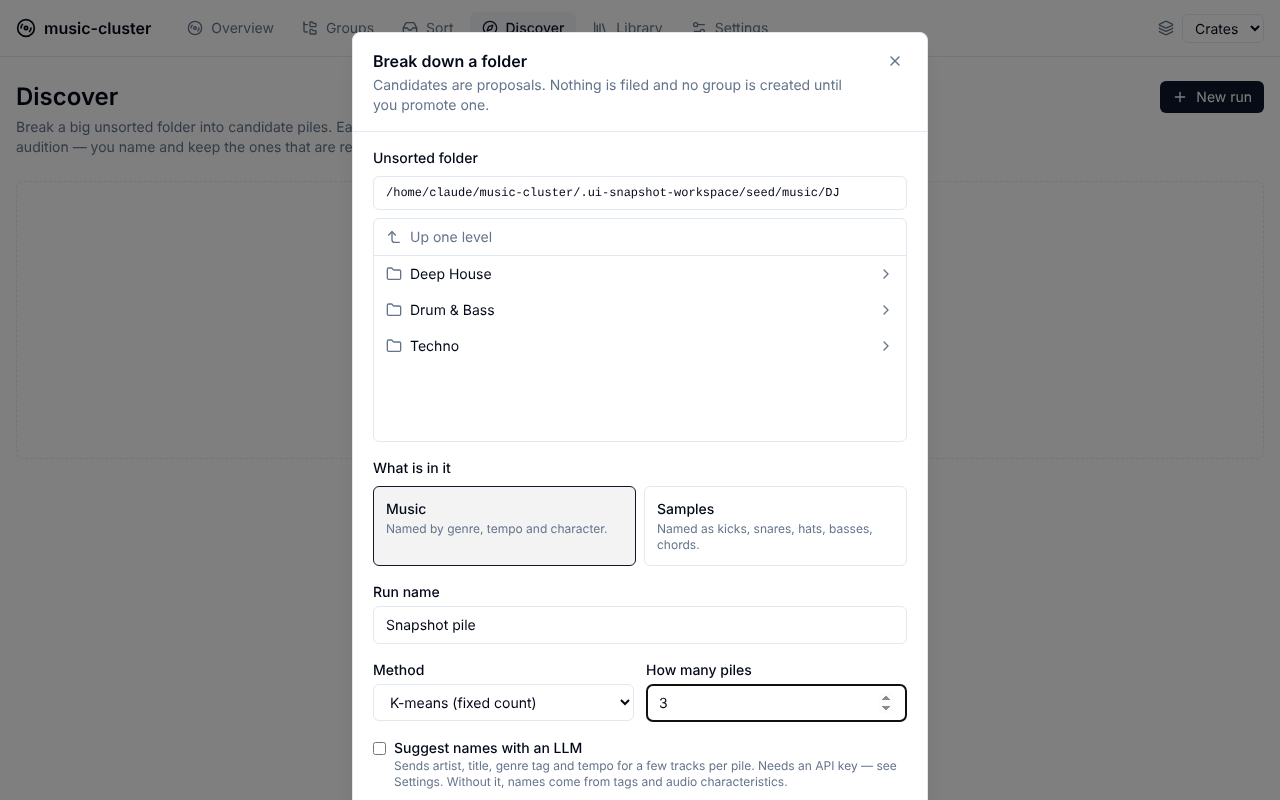
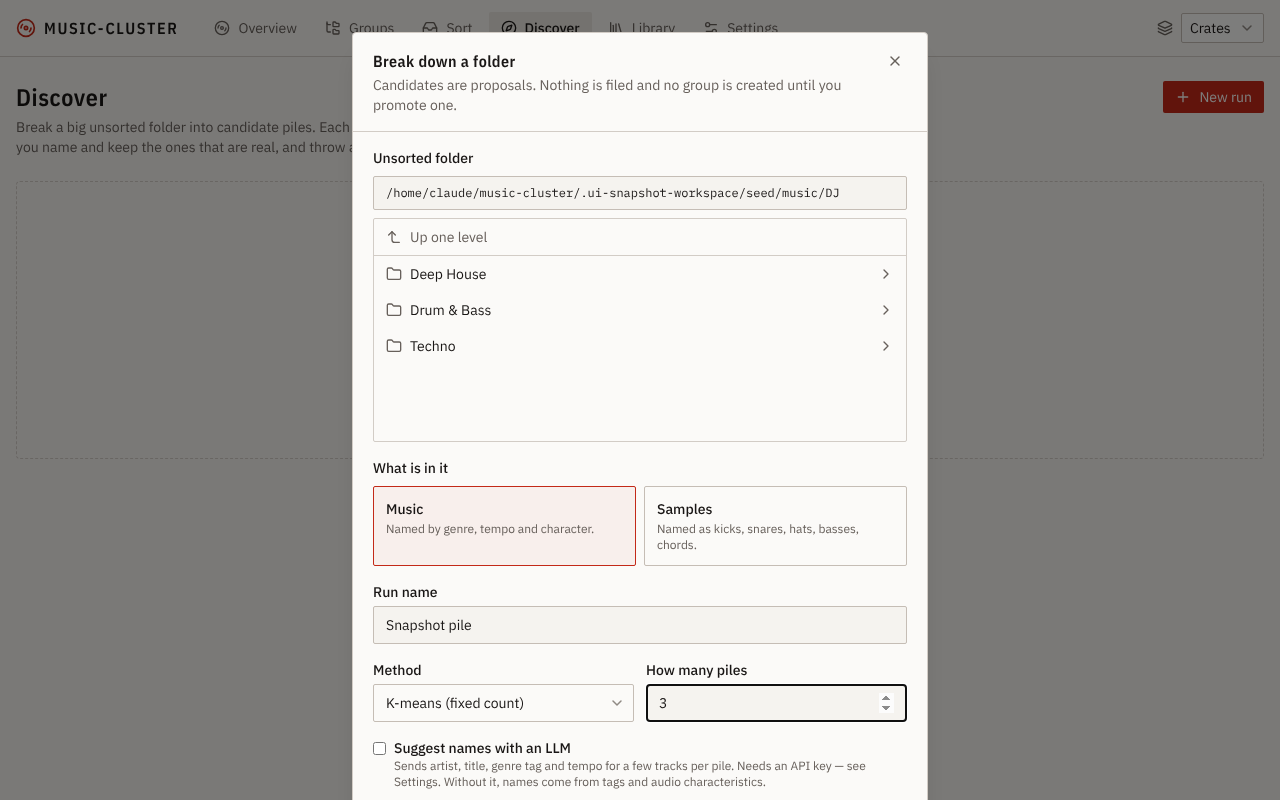
Show the app in the README and retake the tutorial screenshots in the new look
- README gains a short 'What it looks like' section: the sort review, the
  groups page and a group in the dark theme.
- Every docs/images screenshot is retaken after the restyle (#14, #17) with
  the existing update_doc_screenshots.py, which now also copies a new
  dark-group-detail shot added to ui:snapshot.

Claude-Session: https://claude.ai/code/session_017p4eSF2MEFmXZTfaieG7Q1

diff --git a/ui/snapshots/screens.spec.ts b/ui/snapshots/screens.spec.ts
@@ -109,6 +109,13 @@ test.describe('browsing', () => {
     await page.goto('/library');
     await expect(page.getByRole('heading', { name: 'Library', level: 1 })).toBeVisible();
     await shot('dark-library', { note: 'Library and its tag chips in the dark theme' });
+    await page.goto('/groups');
+    await page
+      .getByRole('link', { name: /Techno/ })
+      .first()
+      .click();
+    await expect(page.getByText('Techno Artist').first()).toBeVisible();
+    await shot('dark-group-detail', { note: 'A group, its crate colour and tracks, dark theme' });
   });
 });
 

diff --git a/scripts/update_doc_screenshots.py b/scripts/update_doc_screenshots.py
@@ -40,6 +40,7 @@ SCREENS = [
     "library-similar",
     "library-analyze-dialog",
     "settings",
+    "dark-group-detail",
 ]
 
 

diff --git a/README.md b/README.md
@@ -23,6 +23,21 @@ file you have not confirmed.
 screen by screen. Every command and option is in the
 [command-line reference](docs/cli.md).
 
+## What it looks like
+
+![Reviewing a new track: the suggested groups with their scores, the waveform and the queue](docs/images/sort-review.png)
+_Sorting new buys: every track gets its likely groups and a score, and you
+decide where it goes._
+
+| Your groups                                                          | One group, in the dark theme                                                                  |
+| -------------------------------------------------------------------- | --------------------------------------------------------------------------------------------- |
+| ![The groups in a collection, each with its colour](docs/images/groups.png) | ![A group's colour, notes, destination and reference tracks](docs/images/dark-group-detail.png) |
+
+The app follows your system's light or dark setting (Settings › Appearance
+overrides it). These screenshots are retaken with `npm run ui:snapshot` and
+`python scripts/update_doc_screenshots.py`; the [tutorial](docs/tutorial.md)
+has one for every step.
+
 ## The two workflows
 
 **I already have folders.** Point it at the parent of your genre folders. Each
